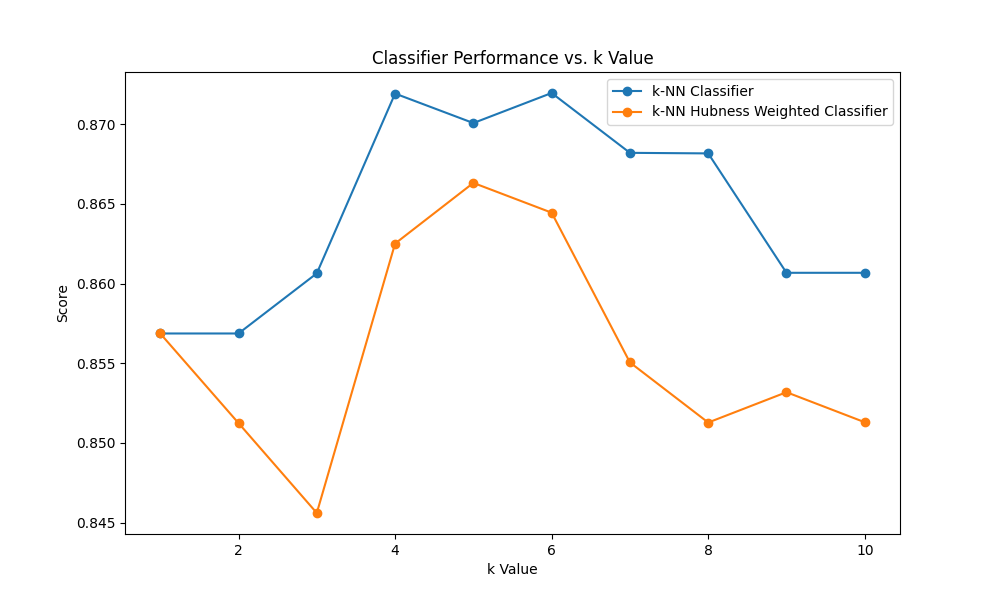
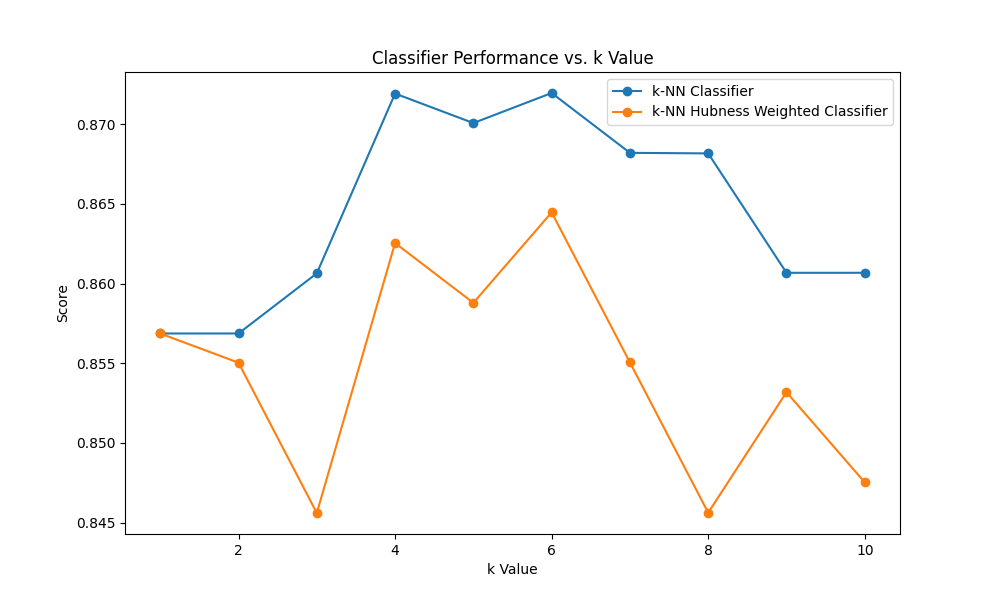
Optimized classifiers and cross validation

diff --git a/cross_validator.py b/cross_validator.py
@@ -4,6 +4,8 @@ from sklearn.metrics import accuracy_score
 from sklearn.preprocessing import StandardScaler
 from sklearn.neighbors import KNeighborsClassifier
 from collections import Counter
+
+from datasets import datasets
 from utils import calculate_bad_hubness_weights, calculate_lid
 import matplotlib.pyplot as plt
 
@@ -11,10 +13,11 @@ import dataset_analysis
 
 
 class knn_classifier:
+    _name = "knn_classifier"
     def __init__(self, k=3):
         self.k = k
 
-    def fit(self, X_train, y_train):
+    def fit(self, X_train, y_train, pre_trained_classifier_lid = None, pre_trained_classifier_hubness = None):
         self.X_train = X_train
         self.y_train = y_train
 
@@ -32,14 +35,18 @@ class knn_classifier:
         most_common = Counter(k_nearest_labels).most_common(1)
         return most_common[0][0]
 
+    def get_name(self):
+        "knn_classifier"
+
 class knn_classifier_hubness_weighted:
+    _name = "knn_classifier_hubness_weighted"
     def __init__(self, k=3):
         self.k = k
 
-    def fit(self, X_train, y_train):
+    def fit(self, X_train, y_train, pre_trained_classifier_lid = None, pre_trained_classifier_hubness = None):
         self.X_train = X_train
         self.y_train = y_train
-        self.weights = calculate_bad_hubness_weights(X_train, y_train, n_jobs=12, n_neighbors=self.k)
+        self.weights = calculate_bad_hubness_weights(X_train, y_train, n_jobs=12, n_neighbors=self.k, pre_trained_classifier=pre_trained_classifier_hubness)
 
     def predict(self, X_test):
         predictions = [self._predict(x) for x in X_test]
@@ -60,14 +67,18 @@ class knn_classifier_hubness_weighted:
         most_common = weighted_votes.most_common(1)
         return most_common[0][0]
 
+    def get_name(self):
+        "knn_classifier_hubness_weighted"
+
 class knn_classifier_lid:
+    _name = "knn_classifier_lid"
     def __init__(self, k=3):
         self.k = k
 
-    def fit(self, X_train, y_train):
+    def fit(self, X_train, y_train, pre_trained_classifier_lid = None, pre_trained_classifier_hubness = None):
         self.X_train = X_train
         self.y_train = y_train
-        self.weights = calculate_lid(X_train, y_train, n_jobs=12, n_neighbors=self.k)
+        self.weights = calculate_lid(X_train, y_train, n_jobs=12, n_neighbors=100, pre_trained_classifier=pre_trained_classifier_lid)
 
     def predict(self, X_test):
         predictions = [self._predict(x) for x in X_test]
@@ -89,13 +100,14 @@ class knn_classifier_lid:
         return most_common[0][0]
 
 class knn_classifier_lid_and_hubness_weight:
+    _name = "knn_classifier_lid_and_hubness_weight"
     def __init__(self, k=3):
         self.k = k
 
-    def fit(self, X_train, y_train):
+    def fit(self, X_train, y_train, pre_trained_classifier_lid = None, pre_trained_classifier_hubness = None):
         self.X_train = X_train
         self.y_train = y_train
-        self.weights = calculate_lid(X_train, y_train, n_jobs=12, n_neighbors=self.k) + calculate_bad_hubness_weights(X_train, y_train, n_jobs=12, n_neighbors=self.k)
+        self.weights = calculate_lid(X_train, y_train, n_jobs=12, n_neighbors=100, pre_trained_classifier=pre_trained_classifier_lid) + calculate_bad_hubness_weights(X_train, y_train, n_jobs=12, n_neighbors=self.k, pre_trained_classifier=pre_trained_classifier_hubness)
 
     def predict(self, X_test):
         predictions = [self._predict(x) for x in X_test]
@@ -116,29 +128,46 @@ class knn_classifier_lid_and_hubness_weight:
         most_common = weighted_votes.most_common(1)
         return most_common[0][0]
 
+    def get_name(self):
+        "knn_classifier_lid_and_hubness_weight"
 
-def cross_validate(X, y, classifier):
+
+def cross_validate(X, y, classifiers, n_jobs=1, n_neighbours=3):
     X = np.array(X)
     y = np.array(y)
     kf = KFold(n_splits=5, shuffle=True, random_state=42)
+    knn_hubness = KNeighborsClassifier(n_neighbors=n_neighbours, n_jobs=n_jobs)
+    knn_lid = KNeighborsClassifier(n_neighbors=100, n_jobs=n_jobs)
 
-    accuracies = []
-
+    accuracies = {}
+    for classifier in classifiers:
+        accuracies.update({classifier._name: []})
     for train_index, test_index in kf.split(X):
         x_train, x_test = X[train_index], X[test_index]
         y_train, y_test = y[train_index], y[test_index]
 
-        classifier.fit(x_train, y_train)
+        knn_lid.fit(x_train, y_train)
+        knn_hubness.fit(x_train, y_train)
 
-        y_pred = classifier.predict(x_test)
-        accuracy = accuracy_score(y_test, y_pred)
+        for classifier in classifiers:
+            classifier_accuracies = accuracies.get(classifier._name)
+            classifier.fit(x_train, y_train, pre_trained_classifier_lid=knn_lid, pre_trained_classifier_hubness=knn_hubness)
 
-        accuracies.append(accuracy)
+            y_pred = classifier.predict(x_test)
+            accuracy = accuracy_score(y_test, y_pred)
 
-    return np.average(accuracies), np.mean(accuracies), accuracies
+            classifier_accuracies.append(accuracy)
+            accuracies.update({classifier._name: classifier_accuracies})
+    for classifier in classifiers:
+        average = np.average(accuracies.get(classifier._name))
+        mean = np.mean(accuracies.get(classifier._name))
+        accuracy = accuracies.get(classifier._name)
+        accuracies.update({classifier._name: (average, mean, accuracy)})
+    return accuracies
 
 if __name__ == '__main__':
-    for dataset in ["vehicle"]:
+    datasets = ["mfeat-factors", "mfeat-fourier", "optdigits", "segment", "spectrometer", "vehicle"]
+    for dataset in datasets:
         Y, X = dataset_analysis.load_dataset(dataset)
         # scaler = StandardScaler()
         # X = scaler.fit_transform(X)
@@ -148,15 +177,23 @@ if __name__ == '__main__':
         knn_lid_weighted_scores = []
         knn_lid_and_hubness_weighted_scores = []
 
+
         for k in k_values:
-            knn_score = cross_validate(np.array(X), np.array(Y), knn_classifier(k=k))[1]
-            knn_hubness_weighted_score = cross_validate(np.array(X), np.array(Y), knn_classifier_hubness_weighted(k=k))[1]
+            classifiers = [
+                knn_classifier(k=k),
+                knn_classifier_hubness_weighted(k=k),
+                # knn_classifier_lid(k=k),
+                # knn_classifier_lid_and_hubness_weight(k=k)
+            ]
+            accuracy_scores = cross_validate(np.array(X), np.array(Y), classifiers)
+            knn_score = accuracy_scores.get(classifiers[0]._name)[1]
+            knn_hubness_weighted_score = accuracy_scores.get(classifiers[1]._name)[1]
 
             knn_scores.append(knn_score)
             knn_hubness_weighted_scores.append(knn_hubness_weighted_score)
 
-            # knn_lid_weighted_score = cross_validate(np.array(X), np.array(Y), knn_classifier_lid(k=k))[1]
-            # knn_lid_and_hubness_weighted_score = cross_validate(np.array(X), np.array(Y), knn_classifier_lid_and_hubness_weight(k=k))[1]
+            # knn_lid_weighted_score = accuracy_scores.get(classifiers[2]._name)[1]
+            # knn_lid_and_hubness_weighted_score = accuracy_scores.get(classifiers[3]._name)[1]
             #
             # knn_lid_weighted_scores.append(knn_lid_weighted_score)
             # knn_lid_and_hubness_weighted_scores.append(knn_lid_and_hubness_weighted_score)
@@ -172,5 +209,5 @@ if __name__ == '__main__':
         plt.ylabel('Score')
         plt.legend()
 
-        # plt.savefig(f'plots/{dataset}.png')
-        plt.show()
+        plt.savefig(f'plots/{dataset}.png')
+        # plt.show()
